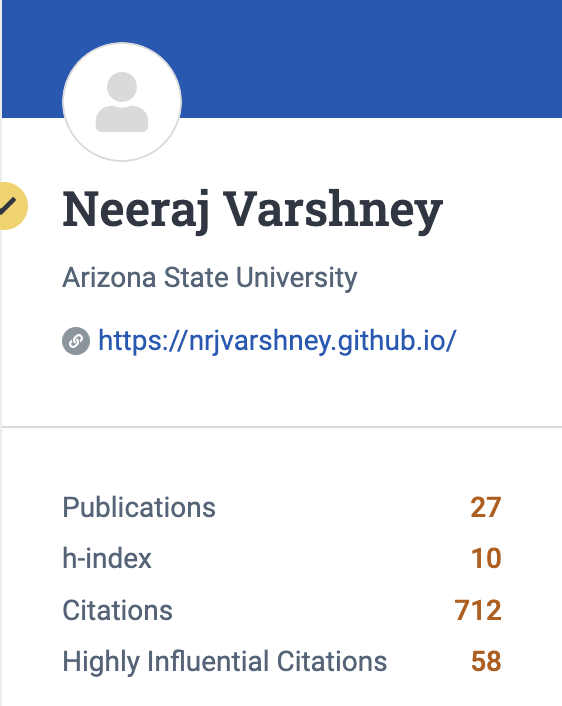
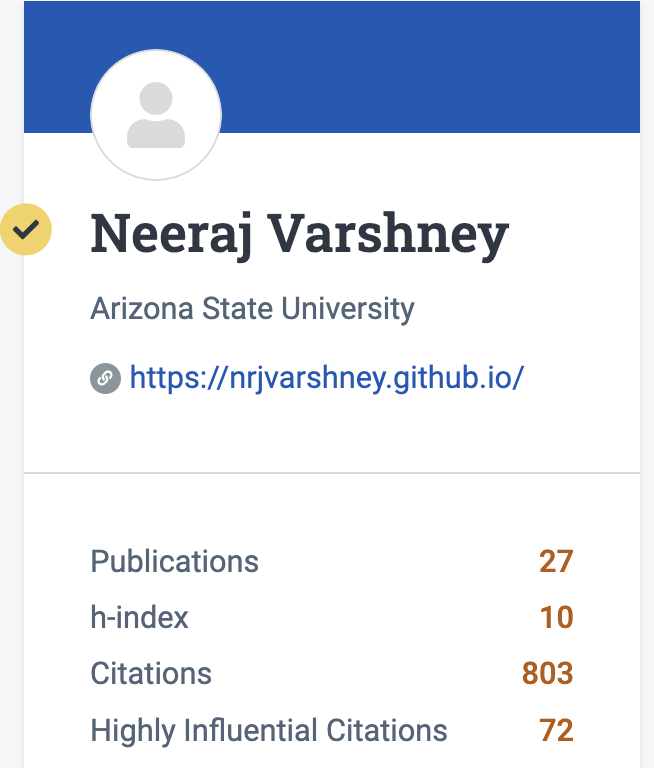
news citations

diff --git a/index.html b/index.html
@@ -201,6 +201,21 @@
   <div class="row p-0">      
       <div class="col-sm-2 p-0">
         <span class="badge danger-color-dark font-weight-bold text-uppercase align-middle date ml-3">
+         Mar 26, 2024
+        </span>
+      </div>
+      <div class="col-sm-10 mt-2 mt-sm-0 ml-3 ml-md-3 p-0 font-weight-light text">
+        <p>Milestone: Crossed <b>800</b> citations.
+          <style type="text/css"> .pha { width: 40%; right: 8.2%; top: 18.5%; } </style>
+                    <div class="pha"><img src = "./assets/img/citations.png" style="width:100%;" ></div>
+        </p>
+      </div>
+    </div>
+    
+
+  <div class="row p-0">      
+      <div class="col-sm-2 p-0">
+        <span class="badge danger-color-dark font-weight-bold text-uppercase align-middle date ml-3">
          Mar 14, 2024
         </span>
       </div>
@@ -210,20 +225,7 @@
       </div>
     </div>
 
-  <div class="row p-0">      
-      <div class="col-sm-2 p-0">
-        <span class="badge danger-color-dark font-weight-bold text-uppercase align-middle date ml-3">
-         Feb 21, 2024
-        </span>
-      </div>
-      <div class="col-sm-10 mt-2 mt-sm-0 ml-3 ml-md-3 p-0 font-weight-light text">
-        <p>Milestone: Crossed <b>700</b> citations.
-          <style type="text/css"> .pha { width: 40%; right: 8.2%; top: 18.5%; } </style>
-                    <div class="pha"><img src = "./assets/img/citations.png" style="width:100%;" ></div>
-        </p>
-      </div>
-    </div>
-    
+  
   <div class="row p-0">
       <div class="col-sm-2 p-0">
         <span class="badge danger-color-dark font-weight-bold text-uppercase align-middle date ml-3">
